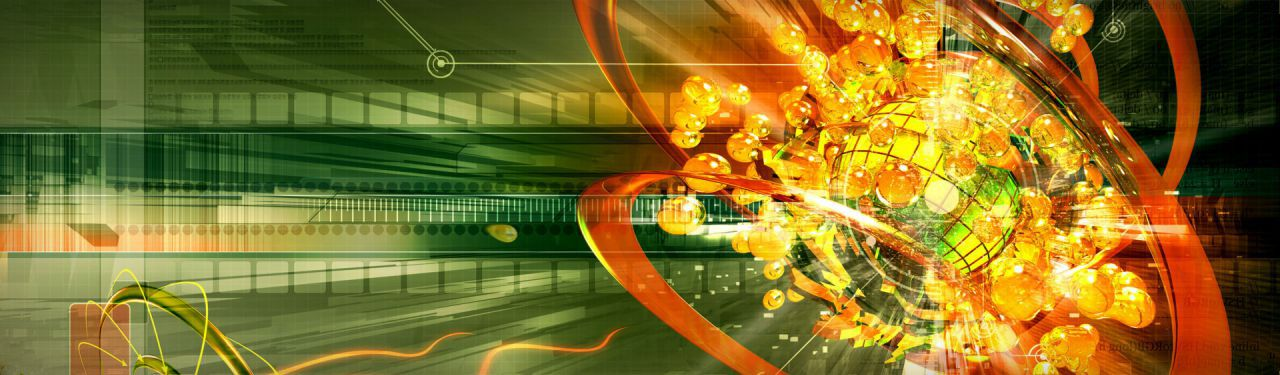
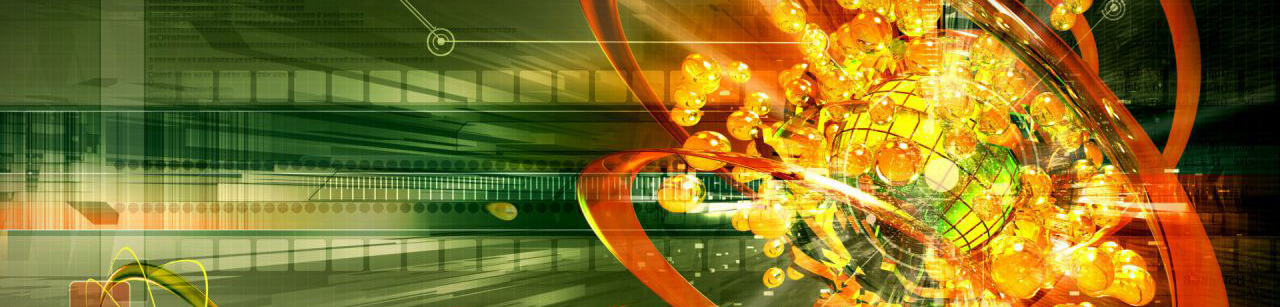
some adjustment

diff --git a/aboutme.html b/aboutme.html
@@ -11,8 +11,8 @@
 <body>
 <div id="wrapper">
 <div id="banner">
-<img src="images/imgHeader.jpg" height="200px" width="100%"/>
-<img id="myphoto" src ="images/Sundy.jpg" alt="My Photo" width="180px"/>
+<img src="images/imgHeader.jpg" alt="banner" width="100%"/>
+<img id="myphoto" src ="images/Sundy.jpg" alt="My Photo" width="180"/>
 <h1>Sundy Thawdarr Shwe</h1>
 </div>
 <div id="main">
@@ -38,8 +38,8 @@
     <div>
         <h3>My Moods</h3>
         <div class="row">
-            <div class="column"><img src="images/happykitty.jpg" width="200px"></div>
-            <div class="column"><img src="images/sadkitty.jpg" width="200px"></div>
+            <div class="column"><img src="images/happykitty.jpg" alt="happy" width="200"></div>
+            <div class="column"><img src="images/sadkitty.jpg" alt="sad" width="200"></div>
           </div>
           <div class="row">
             <div class="column centered">Happy</div>
@@ -71,8 +71,7 @@
   </p>
   <p>
     <a href="https://validator.w3.org/check?uri=referer">
-      <img src="http://mumstudents.org/cs472/2014-09/images/w3c-html.png"
-            alt="html validator"/>
+      <img src="http://mumstudents.org/cs472/2014-09/images/w3c-html.png" alt="html validator"/>
     </a>
 </p>
   

diff --git a/index.html b/index.html
@@ -11,7 +11,7 @@
 <body>
 <div id="wrapper">
 <div id="banner">
-<img src="images/imgHeader.jpg" height="200px" width="100%"/>
+<img src="images/imgHeader.jpg" alt="banner" width="100%"/>
 <img id="myphoto" src ="images/Sundy.jpg" alt="My Photo" width="180px"/>
 <h1>Sundy Thawdarr Shwe</h1>
 </div>
